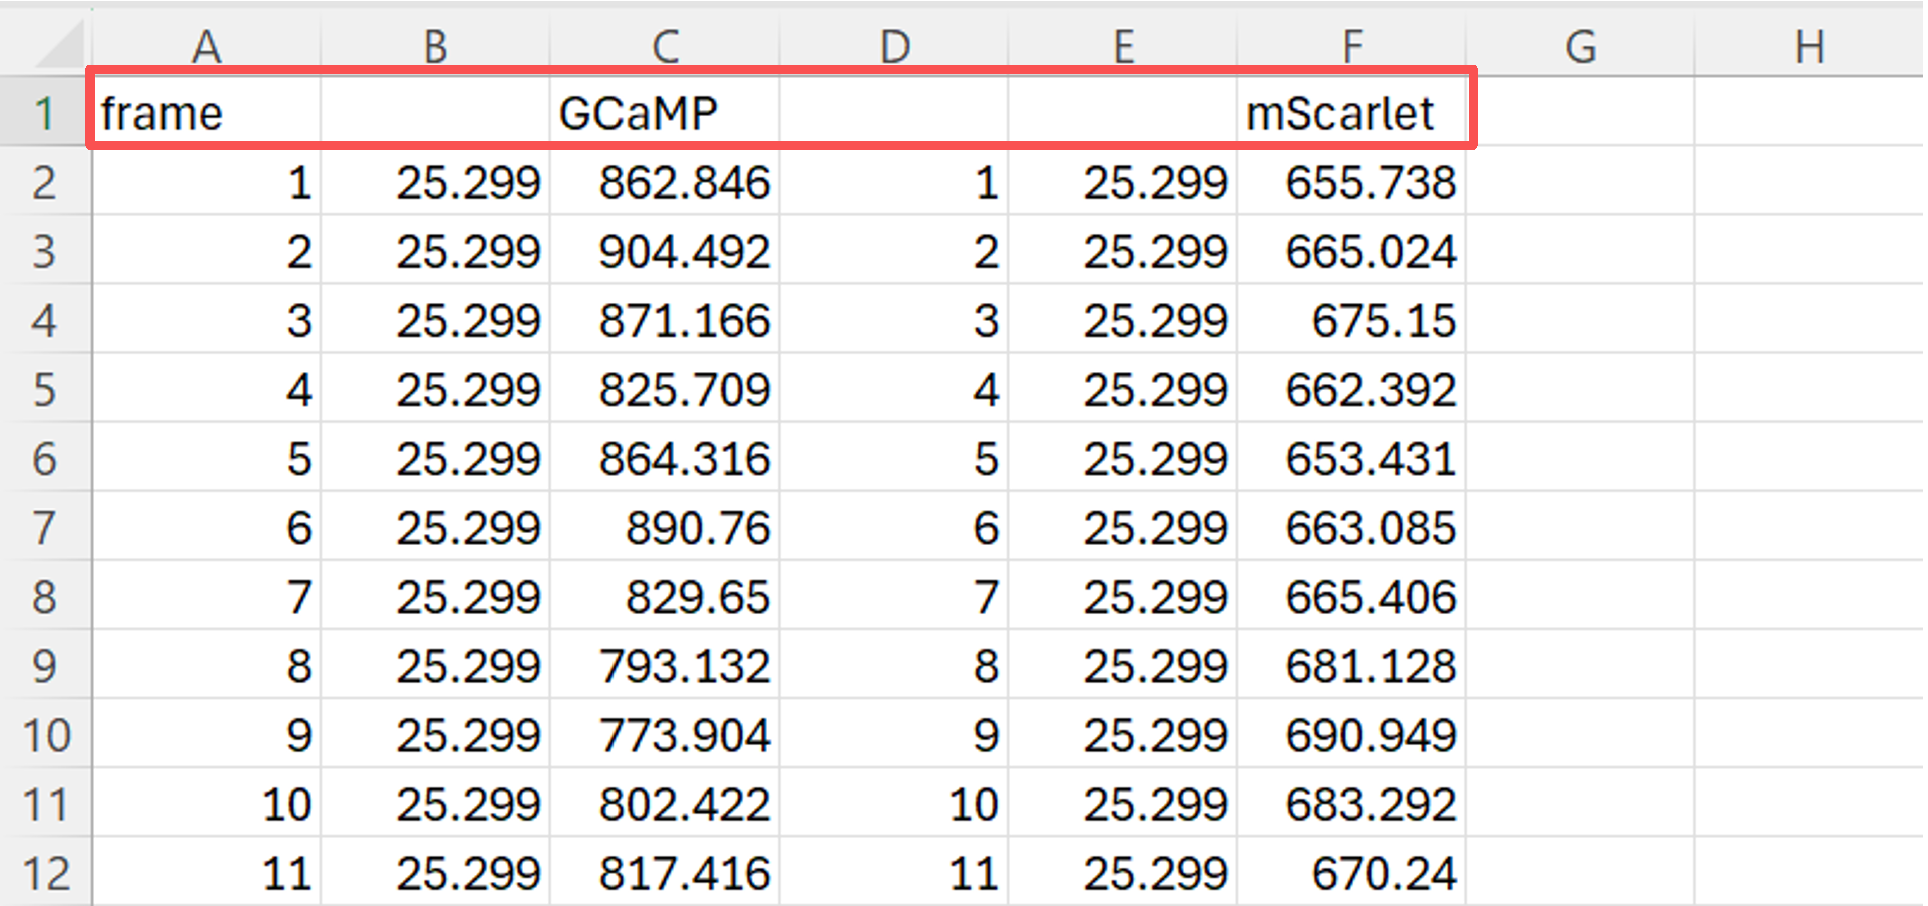
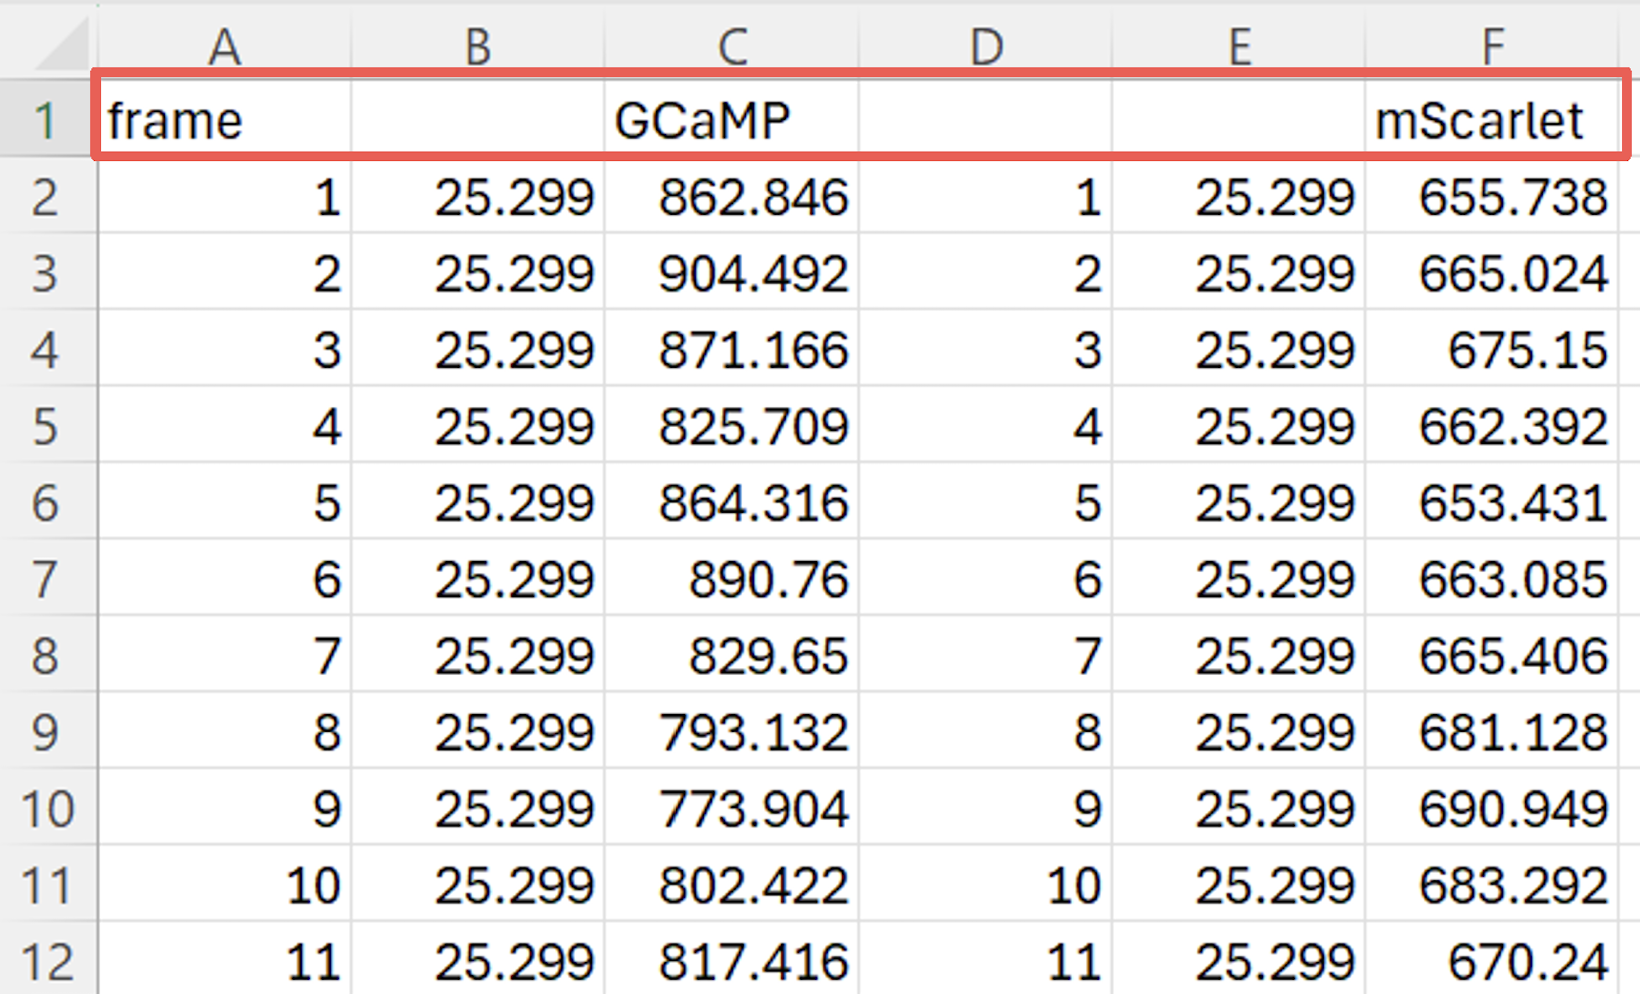
update README

diff --git a/README.md b/README.md
@@ -69,7 +69,7 @@ pyinstaller main.py --onefile --noconsole --name="CaFire" --icon=assets/ecg_icon
 
 2.  Export the resulting measurements to Excel and ensure that the **first row contains the appropriate column headers** (example excel file provided).
 
-   ![Example_excel](./assets/screenshots/example_excel.png)
+   <img src="./assets/screenshots/example_excel.png" alt="Example_excel" style="zoom: 50%;" />
 
 3. Open CaFire and enter the required acquisition parameters. Import the Excel file that contains the ROI time-series data. 
 
